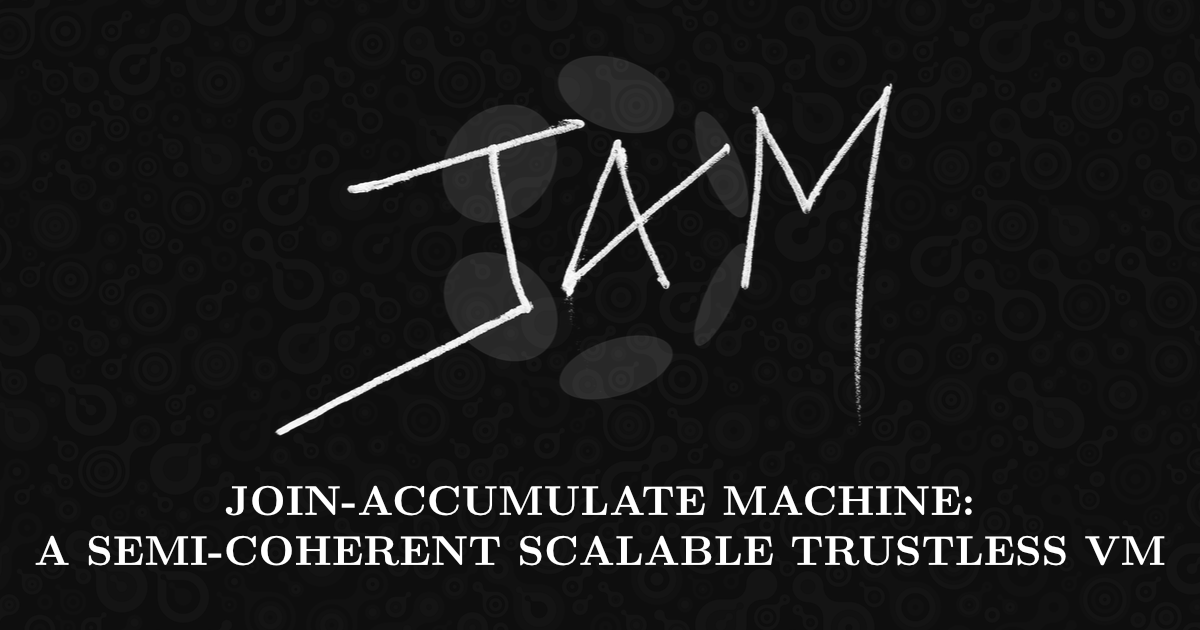
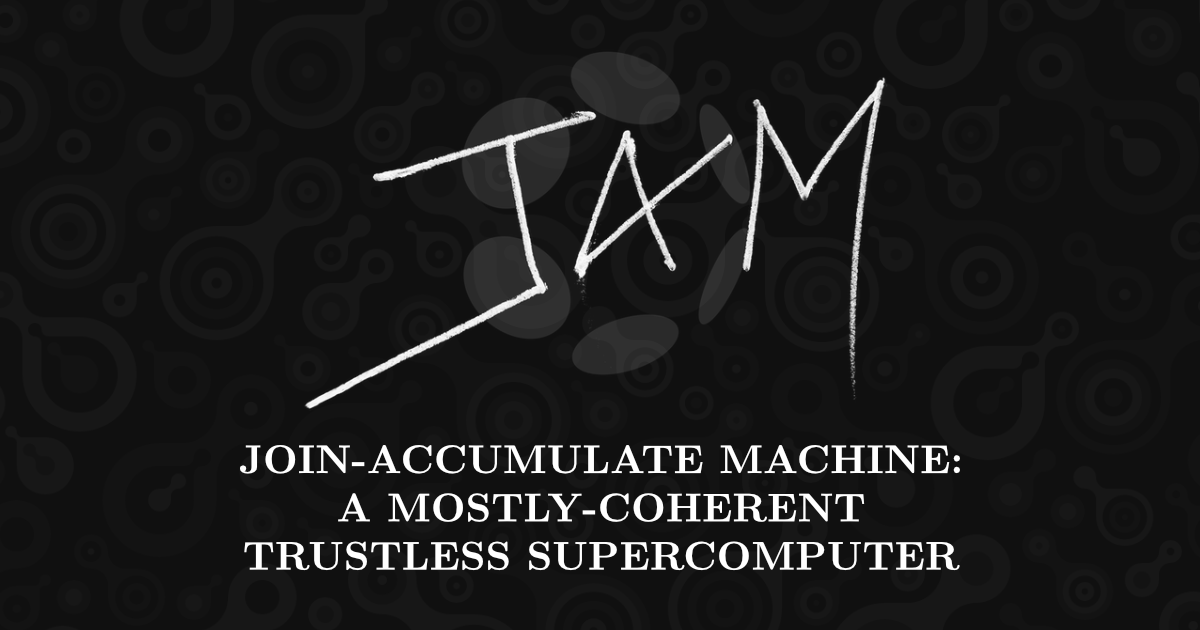
update gray paper title

Changed region(s): [[0.0308, 0.1206, 0.9867, 0.9048], [0.5242, 0.0905, 0.555, 0.1206], [0.4933, 0.0603, 0.5242, 0.0905]]

diff --git a/src/components/Head/OpenGraph.tsx b/src/components/Head/OpenGraph.tsx
@@ -7,11 +7,11 @@ export const OpenGraph: React.FC = () => (
     <meta property="og:title" content="JAM Gray Paper" />
     <meta
       property="og:description"
-      content="JOIN-ACCUMULATE MACHINE: A SEMI-COHERENT SCALABLE TRUSTLESS VM"
+      content="JOIN-ACCUMULATE MACHINE: A MOSTLY-COHERENT TRUSTLESS SUPERCOMPUTER"
     />
     <meta
       property="og:image"
-      content="https://graypaper.com/img/opengraph.png"
+      content="https://graypaper.com/img/opengraph.png?v=19032025"
     />
 
     {/* <!-- Twitter Meta Tags --> */}
@@ -30,12 +30,12 @@ export const OpenGraph: React.FC = () => (
     <meta
       id="twitter:description"
       name="twitter:description"
-      content="JOIN-ACCUMULATE MACHINE: A SEMI-COHERENT SCALABLE TRUSTLESS VM"
+      content="JOIN-ACCUMULATE MACHINE: A MOSTLY-COHERENT TRUSTLESS SUPERCOMPUTER"
     />
     <meta
       id="twitter:image"
       name="twitter:image"
-      content="https://graypaper.com/img/opengraph.png"
+      content="https://graypaper.com/img/opengraph.png?v=19032025"
     />
     <meta
       id="twitter:creator"

diff --git a/src/translations/en.ts b/src/translations/en.ts
@@ -25,7 +25,7 @@ export default {
     "filmed.brussels": "Filmed at the The Sneakers Cafe in Brussels, Belgium on July 11, 2024",
     "filmed.buenos.aires": "Filmed in Buenos Aires on May 10, 2024",
     "filmed.singapore": "Filmed at the National University of Singapore on June 19, 2024.",
-    "GrayPaper.Title": '<span style="white-space: nowrap">JOIN-ACCUMULATE MACHINE:</span><br />A SEMI-COHERENT SCALABLE TRUSTLESS VM',
+    "GrayPaper.Title": '<span style="white-space: nowrap">JOIN-ACCUMULATE MACHINE:</span><br />A MOSTLY-COHERENT<br />TRUSTLESS SUPERCOMPUTER',
     "Hide Gray Paper": "Hide Gray Paper",
     "Interview": "Interview",
     "Latest version": "Latest version",

diff --git a/src/pages/prize.tsx b/src/pages/prize.tsx
@@ -95,7 +95,7 @@ export const Head: HeadFC<{}, { langKey?: string }> = (props) => {
       <meta
         id="twitter:image"
         name="twitter:image"
-        content="https://graypaper.com/img/opengraph.png?v=15122024"
+        content="https://graypaper.com/img/opengraph.png?v=19032025"
       />
 
       <html id="html" lang={i18n.language} />
